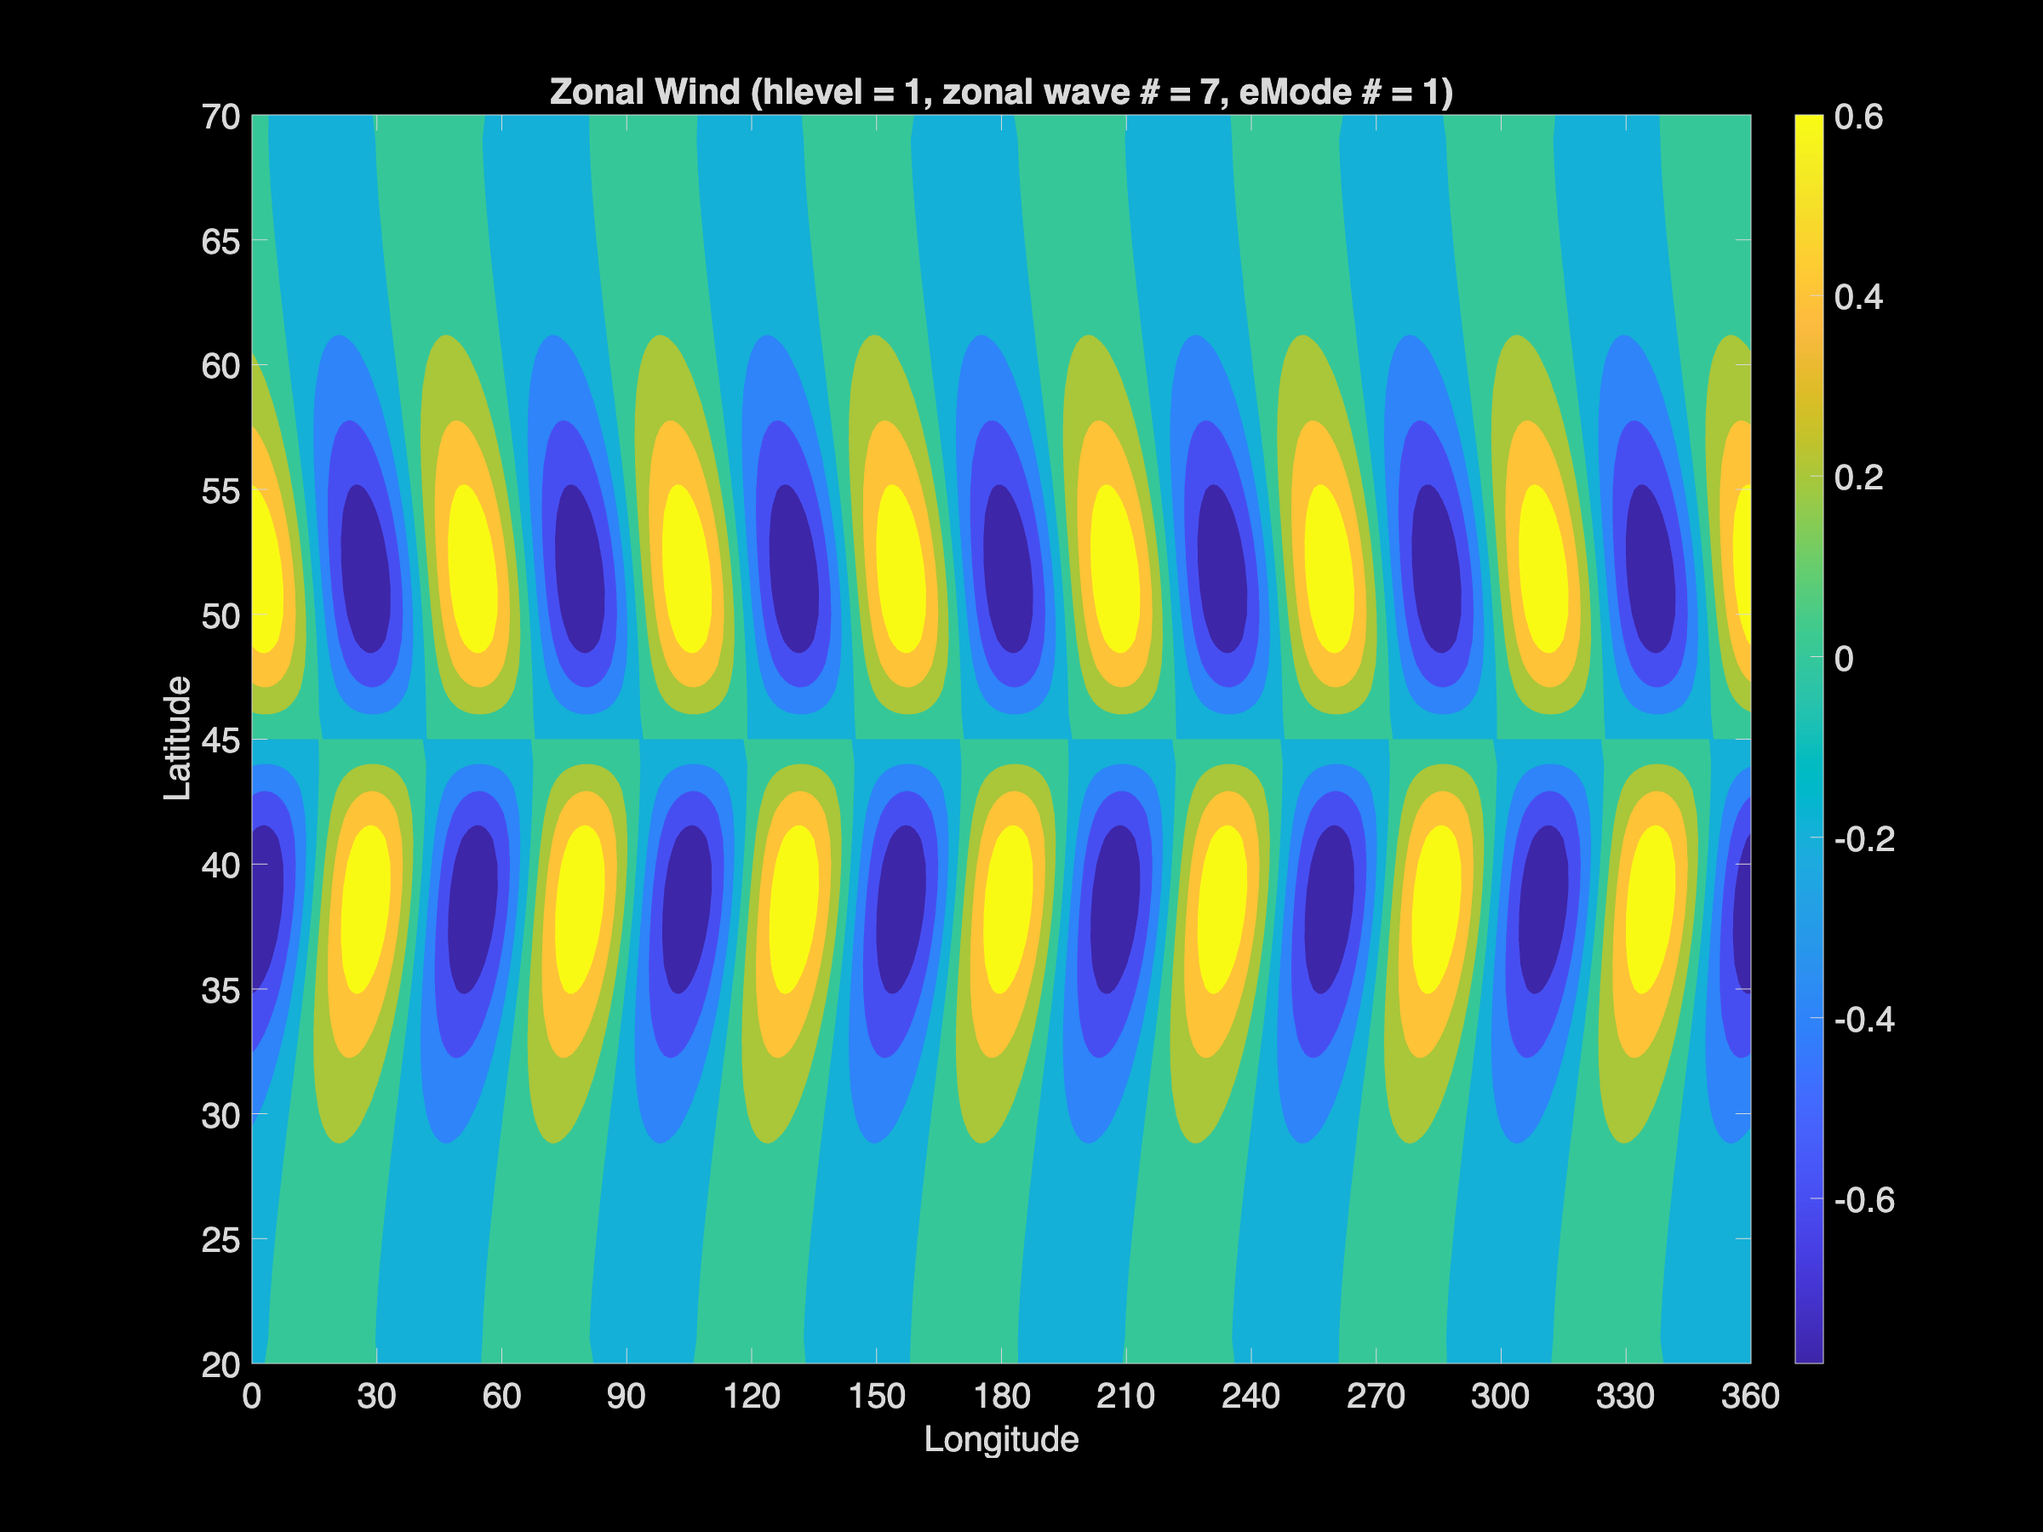
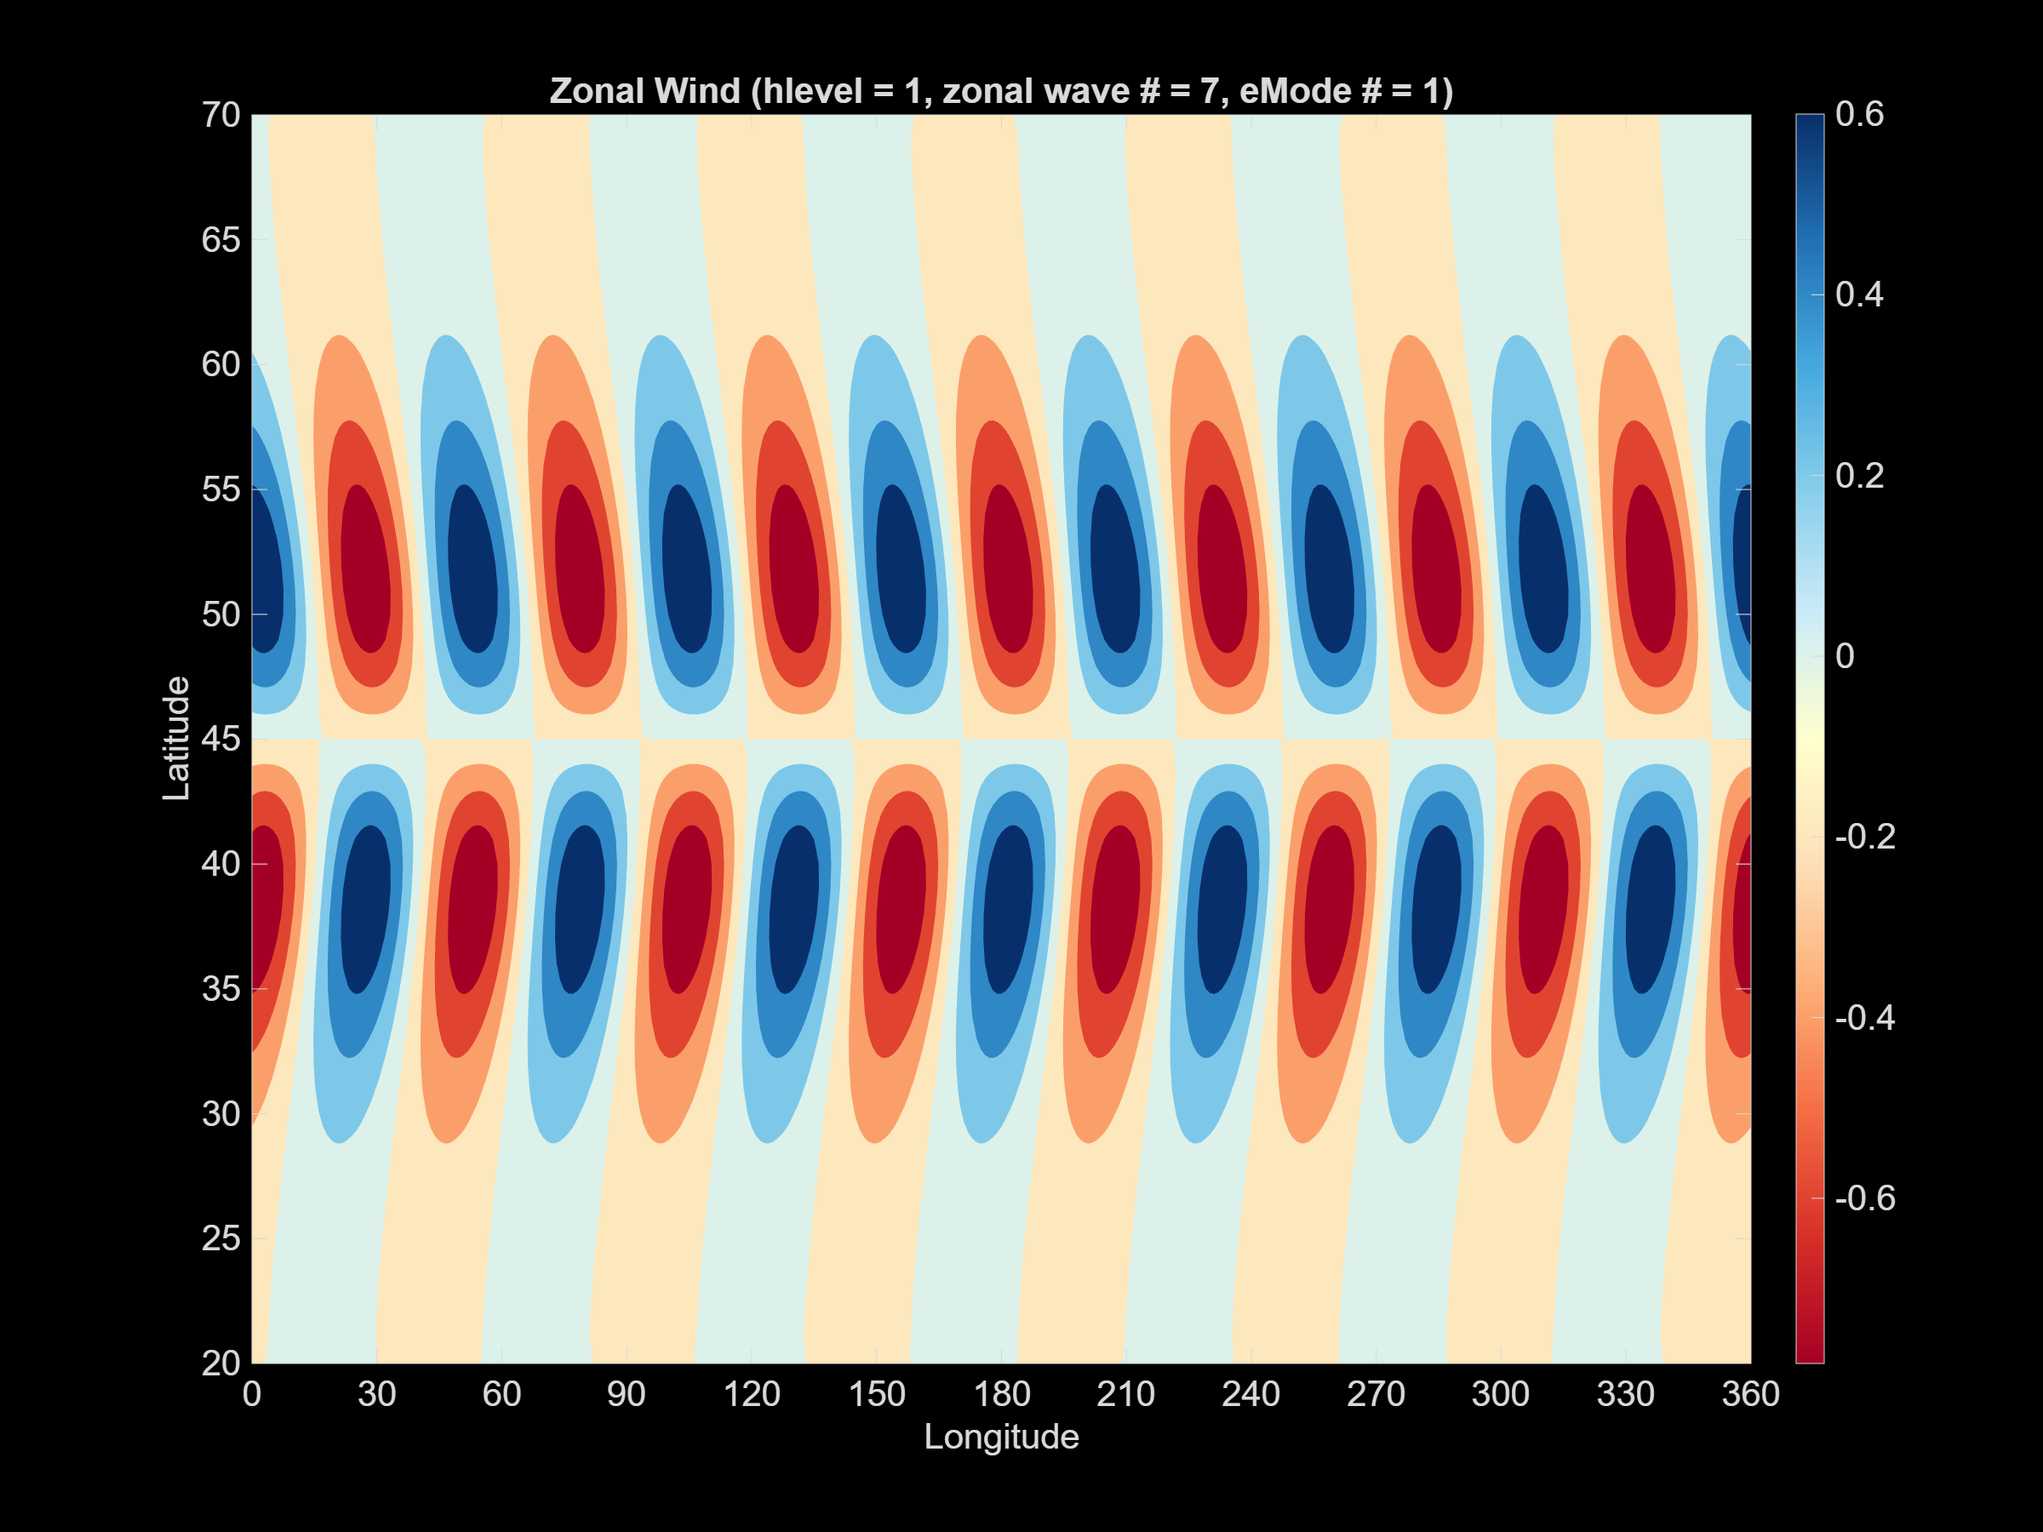
gotta give me more colors

diff --git a/plots/combined_meridional_wind_temp.m b/plots/combined_meridional_wind_temp.m
@@ -1,0 +1,75 @@
+%%%%%%%%%%%%%%%%%%%%%%%%%%%%%%%%%%%%%%%%%%%%%%%%%%%%%%%%%%%%%%%%%%%%%%%%%%%
+%%%%%%%%%%%%%%%%%%%%%%%%%%%%% FILE DESCRIPTION %%%%%%%%%%%%%%%%%%%%%%%%%%%%
+%%%%%%%%%%%%%%%%%%%%%%%%%%%%%%%%%%%%%%%%%%%%%%%%%%%%%%%%%%%%%%%%%%%%%%%%%%%
+
+% FILENAME: combined_meridional_wind_temp.m
+%
+% DESCRIPTION: Plots meridional wind (filled contour) at a specified vertical
+%              level across longitude and latitude, with temperature
+%              overlaid as black contour lines (solid for positive,
+%              dashed for negative, thin solid for zero). The figure is
+%              saved as a PNG including hlevel, wavenumber, and mode number
+%              in title and filename.
+%
+% INPUT:
+%   xx       - Longitude coordinates (degrees)
+%   yy       - Latitude coordinates (degrees)
+%   vg       - Meridional wind field (ii+1 x jj+1 x kk+1 array, m/s)
+%   temp     - Temperature field (same size as vg, K)
+%   hlevel   - Vertical level index (e.g., 1, 25, 51)
+%   m0       - Zonal wavenumber for title/filename
+%   n_mode   - Mode number for title/filename
+%   fig_path - Directory path for saving figure
+
+%%%%%%%%%%%%%%%%%%%%%%%%%%%%%%%%%%%%%%%%%%%%%%%%%%%%%%%%%%%%%%%%%%%%%%%%%%%
+%%%%%%%%%%%%%%%%%%%%%%%%%%%%%%%% FUNCTION %%%%%%%%%%%%%%%%%%%%%%%%%%%%%%%%%
+%%%%%%%%%%%%%%%%%%%%%%%%%%%%%%%%%%%%%%%%%%%%%%%%%%%%%%%%%%%%%%%%%%%%%%%%%%%
+
+function combined_meridional_wind_temp(xx, yy, vg, temp, hlevel, m0, n_mode, fig_path)
+    %% Create figure
+    figure('units','inch','position',[4,2,16,12],'Visible','off')
+    
+    % Wind shading
+    contourf(xx, yy, squeeze(vg(:,:,hlevel))', 'LineStyle','none');
+    colorbar;
+    colormap(cmap_RdYlBl(256));
+    hold on;
+    
+    % --- Temperature contours: white, solid(+), dashed(-) ---
+    temp_slice = squeeze(temp(:,:,hlevel))';
+    levs = -0.6:0.1:0.6;                    % fine levels for small range
+    zero_idx = find(levs == 0);
+    
+    % Positive: solid white
+    if zero_idx < length(levs)
+        contour(xx, yy, temp_slice, levs(zero_idx+1:end), 'k-', 'LineWidth', 2);
+    end
+    
+    % Negative: dashed white
+    if zero_idx > 1
+        contour(xx, yy, temp_slice, levs(1:zero_idx-1), 'k--', 'LineWidth', 2);
+    end
+    
+    % Zero line: thin solid white (optional — comment out to hide)
+    contour(xx, yy, temp_slice, [0 0], 'k-', 'LineWidth', 0.8);
+    % ---------------------------------------------------------
+    
+    hold off;
+    xlabel('Longitude')
+    ylabel('Latitude')
+    set(gca,'xtick',0:30:360)
+    title_str = ['Meridional Wind (hlevel = ', num2str(hlevel), ...
+                 ', zonal wave # = ', num2str(m0), ...
+                 ', eMode # = ', num2str(n_mode), ')'];
+    title(title_str);
+    set(findall(gcf,'-property','FontSize'),'FontSize',20);
+    
+    %% Save
+    outFile = fullfile(fig_path, ['meridional_wind_', ...
+                 '_hlevel-', num2str(hlevel), ...
+                 '_eMode-', num2str(n_mode), ...
+                 '_m0-', num2str(m0), '.png']);
+    fprintf('Saving meridional wind plot to: %s\n', outFile);
+    saveas(gcf, outFile);
+    close(gcf);
+end

diff --git a/plots/combined_zonal_wind_temp.m b/plots/combined_zonal_wind_temp.m
@@ -1,0 +1,75 @@
+%%%%%%%%%%%%%%%%%%%%%%%%%%%%%%%%%%%%%%%%%%%%%%%%%%%%%%%%%%%%%%%%%%%%%%%%%%%
+%%%%%%%%%%%%%%%%%%%%%%%%%%%%% FILE DESCRIPTION %%%%%%%%%%%%%%%%%%%%%%%%%%%%
+%%%%%%%%%%%%%%%%%%%%%%%%%%%%%%%%%%%%%%%%%%%%%%%%%%%%%%%%%%%%%%%%%%%%%%%%%%%
+
+% FILENAME: plot_zonal_wind.m
+%
+% DESCRIPTION: Plots zonal wind (filled contour) at a specified vertical
+%              level across longitude and latitude, with temperature
+%              overlaid as black contour lines (solid for positive,
+%              dashed for negative, thin solid for zero). The figure is
+%              saved as a PNG including hlevel, wavenumber, and mode number
+%              in title and filename.
+%
+% INPUT:
+%   xx       - Longitude coordinates (degrees)
+%   yy       - Latitude coordinates (degrees)
+%   ug       - Zonal wind field (ii+1 x jj+1 x kk+1 array, m/s)
+%   temp     - Temperature field (same size as ug, K)
+%   hlevel   - Vertical level index (e.g., 1, 25, 51)
+%   m0       - Zonal wavenumber for title/filename
+%   n_mode   - Mode number for title/filename
+%   fig_path - Directory path for saving figure
+
+%%%%%%%%%%%%%%%%%%%%%%%%%%%%%%%%%%%%%%%%%%%%%%%%%%%%%%%%%%%%%%%%%%%%%%%%%%%
+%%%%%%%%%%%%%%%%%%%%%%%%%%%%%%%% FUNCTION %%%%%%%%%%%%%%%%%%%%%%%%%%%%%%%%%
+%%%%%%%%%%%%%%%%%%%%%%%%%%%%%%%%%%%%%%%%%%%%%%%%%%%%%%%%%%%%%%%%%%%%%%%%%%%
+
+function combined_zonal_wind_temp(xx, yy, ug, temp, hlevel, m0, n_mode, fig_path)
+    %% Create figure
+    figure('units','inch','position',[4,2,16,12],'Visible','off')
+    
+    % Wind shading
+    contourf(xx, yy, squeeze(ug(:,:,hlevel))', 'LineStyle','none');
+    colorbar;
+    colormap(cmap_RdYlBl(256));
+    hold on;
+    
+    % --- Temperature contours: black, solid(+), dashed(-) ---
+    temp_slice = squeeze(temp(:,:,hlevel))';
+    levs = -0.6:0.1:0.6;                    % same fine levels as meridional plot
+    zero_idx = find(levs == 0);
+    
+    % Positive: solid black
+    if zero_idx < length(levs)
+        contour(xx, yy, temp_slice, levs(zero_idx+1:end), 'k-', 'LineWidth', 2);
+    end
+    
+    % Negative: dashed black
+    if zero_idx > 1
+        contour(xx, yy, temp_slice, levs(1:zero_idx-1), 'k--', 'LineWidth', 2);
+    end
+    
+    % Zero line: thin solid black (optional — comment out to hide)
+    contour(xx, yy, temp_slice, [0 0], 'k-', 'LineWidth', 0.8);
+    % ---------------------------------------------------------
+    
+    hold off;
+    xlabel('Longitude')
+    ylabel('Latitude')
+    set(gca,'xtick',0:30:360)
+    title_str = ['Zonal Wind (hlevel = ', num2str(hlevel), ...
+                 ', zonal wave # = ', num2str(m0), ...
+                 ', eMode # = ', num2str(n_mode), ')'];
+    title(title_str);
+    set(findall(gcf,'-property','FontSize'),'FontSize',20);
+    
+    %% Save
+    outFile = fullfile(fig_path, ['zonal_wind_', ...
+                 '_hlevel-', num2str(hlevel), ...
+                 '_eMode-', num2str(n_mode), ...
+                 '_m0-', num2str(m0), '.png']);
+    fprintf('Saving zonal wind + temperature plot to: %s\n', outFile);
+    saveas(gcf, outFile);
+    close(gcf);
+end

diff --git a/plt.m b/plt.m
@@ -10,7 +10,7 @@
 % background state), and saves figures to disk. No computation is performed.
 %
 % INPUT:
-% - Precomputed results: from calc_wave-m0_eMode-n.mat
+% - Precomputed params: from calc_wave-m0_eMode-n.mat
 % - Model parameters: from cfg()
 %
 % OUTPUT:
@@ -42,34 +42,26 @@
 clear; clc;
 addpath(['functions', filesep])
 addpath(['plots', filesep])
-addpath(['config', filesep])
 
-%% Load config and computed results
+%% Load config and computed params
 params = cfg();
-load(fullfile(params.data_dir, params.calc_filename), 'results');
+load(fullfile(params.data_dir, params.calc_filename));
 
 jj = params.jj;
 kk = params.kk;
 ll = params.ll;
 
-% Unpack results from calculated date file
-xx = results.xx; yy = results.yy; zz = results.zz; time = results.time;
-gpt_h = results.gpt_h; temp = results.temp; ug = results.ug; vg = results.vg;
-pvfield = results.pvfield; wfield = results.wfield; XV = results.XV;
-gpt_h_hovmoler1 = results.gpt_h_hovmoler1;
-gpt_h_hovmoler51 = results.gpt_h_hovmoler51;
-ug_hovmoler1 = results.ug_hovmoler1;
-ug_hovmoler51 = results.ug_hovmoler51;
-Ubar = results.Ubar; BPVy = results.BPVy;
-m0 = results.m0; n_mode = results.n_mode;
-growth_rate = results.growth_rate; omega = results.omega;
-hlat = results.hlat;
+% Unpack params from calculated date file
+xx = params.xx; yy = params.yy; zz = params.zz; time = params.time;
+m0 = params.m0; n_mode = params.n_mode;
+hlat = params.hlat;
 
 fig_path = params.plot_dir;
+fig_path2 = fullfile(fig_path, 'combined');
 
 %% Ensure plot directory exists
-if ~exist(fig_path, 'dir')
-    mkdir(fig_path);
+if ~exist(fig_path2, 'dir')
+    mkdir(fig_path2);
 end
 
 %%%%%%%%%%%%%%%%%%%%%%%%%%%%%%%%%%%%%%%%%%%%%%%%%%%%%%%%%%%%%%%%%%%%%%%%%%%
@@ -106,13 +98,23 @@ end
 % Meridional wind at levels 1, 25, 51
 for h = hlevels
     fprintf('Plotting meridional wind at hlevel = %d\n', h);
-    plot_meridional_wind(xx, yy, vg, h, m0, n_mode, fig_path);
+    plot_meridional_wind(xx, yy, vg, h, m0, n_mode, fig_path)
 end
 
 % Temperature at levels 1, 25, 51
 for h = hlevels
     fprintf('Plotting temperature at hlevel = %d\n', h);
     plot_temp(xx, yy, temp, h, m0, n_mode, fig_path);
+end
+
+for h = hlevels
+    fprintf('Plotting combined meridional wind and temperature at hlevel = %d\n', h);
+    combined_meridional_wind_temp(xx, yy, vg, temp, h, m0, n_mode, fig_path2);
+end
+
+for h = hlevels
+    fprintf('Plotting combined zonal wind and temperature at hlevel = %d\n', h);
+    combined_zonal_wind_temp(xx, yy, ug, temp, h, m0, n_mode, fig_path2)
 end
 
 % Top boundary geopotential

diff --git a/plots/cmap_twilight.m b/plots/cmap_twilight.m
@@ -1,0 +1,33 @@
+    % TWILIGHT_SHIFTED - Custom colormap based on Matplotlib's twilight_shifted
+    % Usage: colormap(twilight_shifted(256))
+    %
+    % Interpolates between 10 sampled colors from matplotlib.cm.twilight_shifted
+    % Colors sourced from Python: cmap(np.linspace(0,1,10))
+    %
+    % Hex codes for reference:
+    % '#301437', '#572385', '#6066b6', '#7ca2c2', '#c8d0d6',
+    % '#dacac3', '#c6896c', '#a84750', '#6b1b4d', '#2f1436'
+
+function cmap = cmap_twilight(n)
+    if nargin < 1, n = 256; end
+
+    % Node colors in RGB (0-1), alpha ignored in MATLAB colormaps
+    nodes = [
+        0.18739228, 0.0771021 , 0.21618875;  % #301437
+        0.33954169, 0.13704802, 0.52328798;  % #572385
+        0.37471686, 0.39955665, 0.71257369;  % #6066b6
+        0.48673596, 0.63416646, 0.7625578 ;  % #7ca2c2
+        0.78399101, 0.81755426, 0.83936747;  % #c8d0d6
+        0.8542922 , 0.79097197, 0.76583801;  % #dacac3
+        0.77590791, 0.53554218, 0.42413368;  % #c6896c
+        0.65832808, 0.27803211, 0.31346434;  % #a84750
+        0.41796105, 0.10420645, 0.30278652;  % #6b1b4d
+        0.18488036, 0.07942573, 0.21307652   % #2f1436
+    ];
+
+    % Node positions evenly spaced from 0 to 1
+    pos = linspace(0, 1, size(nodes, 1));
+
+    % Interpolate to desired number of colors
+    cmap = interp1(pos, nodes, linspace(0, 1, n), 'pchip'); % or 'linear'
+end

diff --git a/plots/cmap_spectral.m b/plots/cmap_spectral.m
@@ -1,0 +1,32 @@
+    % SPECTRAL_CUSTOM - Custom colormap based on provided spectral colors
+    % Usage: colormap(spectral_custom(256))
+    %
+    % Interpolates between 10 sampled spectral colors
+    % Hex codes for reference:
+    % '#9e0142', '#d8434e', '#f67a49', '#fdbf6f', '#feeda1',
+    % '#f1f9a9', '#bfe5a0', '#74c7a5', '#378ebb', '#5e4fa2'
+
+function cmap = cmap_spectral(n)
+    if nargin < 1, n = 256; end
+
+    % Node colors in RGB (0-1)
+    nodes = [
+        0.61960784, 0.00392157, 0.25882353;  % #9e0142
+        0.84721261, 0.26120723, 0.30519031;  % #d8434e
+        0.96378316, 0.47743176, 0.28581315;  % #f67a49
+        0.99346405, 0.74771242, 0.43529412;  % #fdbf6f
+        0.99777009, 0.93087274, 0.63306421;  % #feeda1
+        0.94425221, 0.97770088, 0.66205306;  % #f1f9a9
+        0.74771242, 0.89803922, 0.62745098;  % #bfe5a0
+        0.45305652, 0.78154556, 0.64628989;  % #74c7a5
+        0.21607074, 0.55563245, 0.73194925;  % #378ebb
+        0.36862745, 0.30980392, 0.63529412   % #5e4fa2
+    ];
+
+    % Node positions evenly spaced from 0 to 1
+    pos = linspace(0, 1, size(nodes, 1));
+
+    % Interpolate to desired number of colors
+    % Using 'pchip' for smooth, shape-preserving interpolation (like matplotlib)
+    cmap = interp1(pos, nodes, linspace(0, 1, n), 'pchip');
+end

diff --git a/plots/plot_momentum_flux.m b/plots/plot_momentum_flux.m
@@ -44,13 +44,13 @@ function plot_momentum_flux(vg, ug, m0, n_mode, fig_path)
     figure('units', 'inch', 'position', [4,2,16,12], 'Visible', 'off')
     contourf(zvu_calc', 'LineStyle', 'none');
     colorbar;
-    colormap(cmap_RdYlBl(256))
+    colormap(cmap_twilight(256));
     xlabel('Latitude')
     ylabel('z-level')
     % set(gca, 'xtick', 0:30:360)
 
     % Set title
-    title_str = ['Mean Zonal Flow', ' (zonal wave # = ', ...
+    title_str = ['Momentum Flux', ' (zonal wave # = ', ...
      num2str(m0), ', eMode # = ', num2str(n_mode), ')'];
 
     title(title_str);
@@ -59,7 +59,7 @@ function plot_momentum_flux(vg, ug, m0, n_mode, fig_path)
     set(findall(gcf, '-property', 'FontSize'), 'FontSize', 20);
 
     %% Save figure
-    outFile = fullfile(fig_path, ['momentum-flux', '_eMode-', num2str(n_mode), ...
+    outFile = fullfile(fig_path, ['momentum_flux', '_eMode-', num2str(n_mode), ...
         '_m0-', num2str(m0), '.png']);
     fprintf('Saving zonal wind plot to: %s\n', outFile); % Debug output
     saveas(gcf, outFile);

diff --git a/plots/plot_meridional_wind.m b/plots/plot_meridional_wind.m
@@ -24,10 +24,11 @@
 
 function plot_meridional_wind(xx, yy, vg, hlevel, m0, n_mode, fig_path)
 
-    %% Create figure
+    % Create figure
     figure('units', 'inch', 'position', [4,2,16,12], 'Visible', 'off')
     contourf(xx, yy, squeeze(vg(:,:,hlevel))', 'LineStyle', 'none');
     colorbar;
+    colormap(cmap_RdYlBl(256));
     xlabel('Longitude')
     ylabel('Latitude')
     set(gca, 'xtick', 0:30:360)
@@ -41,7 +42,7 @@ function plot_meridional_wind(xx, yy, vg, hlevel, m0, n_mode, fig_path)
     % Set global font size
     set(findall(gcf, '-property', 'FontSize'), 'FontSize', 20);
     
-    %% Save figure
+    % Save figure
     outFile = fullfile(fig_path, ['meridional_wind_', '_hlevel-', num2str(hlevel), ... 
         '_eMode-', num2str(n_mode), '_m0-', num2str(m0), '.png']);
     fprintf('Saving meridional wind plot to: %s\n', outFile);

diff --git a/calc.m b/calc.m
@@ -99,6 +99,7 @@ F3 = F3matrix(XV);
 F2 = F2matrix(XV,Ubar);
 F1 = F1matrix(XV,Ubar);
 
+%% Calculate wind field
 w_vec   = w2vec(G,F1,F2,F3);
 wfield  = w2field(w_vec, ii, dx);
 
@@ -118,7 +119,7 @@ end
 
 calcFile = fullfile(params.data_dir, params.calc_filename);
 
-% ---- 1. Save -------------------------------------------------
+%% Save data file
 save(calcFile, ...
     'gpt_h', 'temp', 'ug', 'vg', 'pvfield', 'wfield', ...
     'gpt_h_hovmoler1', 'gpt_h_hovmoler51', ...

diff --git a/plots/plot_temp.m b/plots/plot_temp.m
@@ -28,7 +28,8 @@ function plot_temp(xx, yy, temp, hlevel, m0, n_mode, fig_path)
     %% Create figure
     figure('units', 'inch', 'position', [4,2,16,12], 'Visible', 'off')
     contourf(xx, yy, squeeze(temp(:,:,hlevel))', 'LineStyle', 'none');
-    colormap(flipud(cmap_RdYlBl(256)));
+    clim([-0.8 0.8]); % sets limit to contourf
+    colormap(flipud(cmap_twilight(256)));
     colorbar;
     xlabel('Longitude')
     ylabel('Latitude')

diff --git a/plots/plot_zonal_wind.m b/plots/plot_zonal_wind.m
@@ -27,6 +27,7 @@ function plot_zonal_wind(xx, yy, ug, hlevel, m0, n_mode, fig_path)
     figure('units', 'inch', 'position', [4,2,16,12], 'Visible', 'off')
     contourf(xx, yy, squeeze(ug(:,:,hlevel))', 'LineStyle', 'none');
     colorbar;
+    colormap(cmap_RdYlBl(256));
     xlabel('Longitude')
     ylabel('Latitude')
     set(gca, 'xtick', 0:30:360)

diff --git a/plots/plot_evec_amp.m b/plots/plot_evec_amp.m
@@ -24,6 +24,7 @@ function plot_evec_amp(yy, zz, eVec_amp, m0, n_mode, growth_rate, omega, fig_pat
     %% Create figure
     figure('units', 'inch', 'position', [4,2,16,12], 'Visible', 'off')
     contourf(yy, zz, eVec_amp', 'linestyle', 'none');
+    hold on
     xlabel('Latitude')
     ylabel('Height (km)')
     set(gca, 'fontsize', 22, 'color', 'w')

diff --git a/python/get_colors.py b/python/get_colors.py
@@ -3,7 +3,7 @@ from matplotlib.colors import to_hex
 import numpy as np
 
 # Get the colormap
-cmap = plt.cm.twilight_shifted
+cmap = plt.cm.Spectral
 
 # Sample 10 colors (for example)
 colors = cmap(np.linspace(0, 1, 10))
